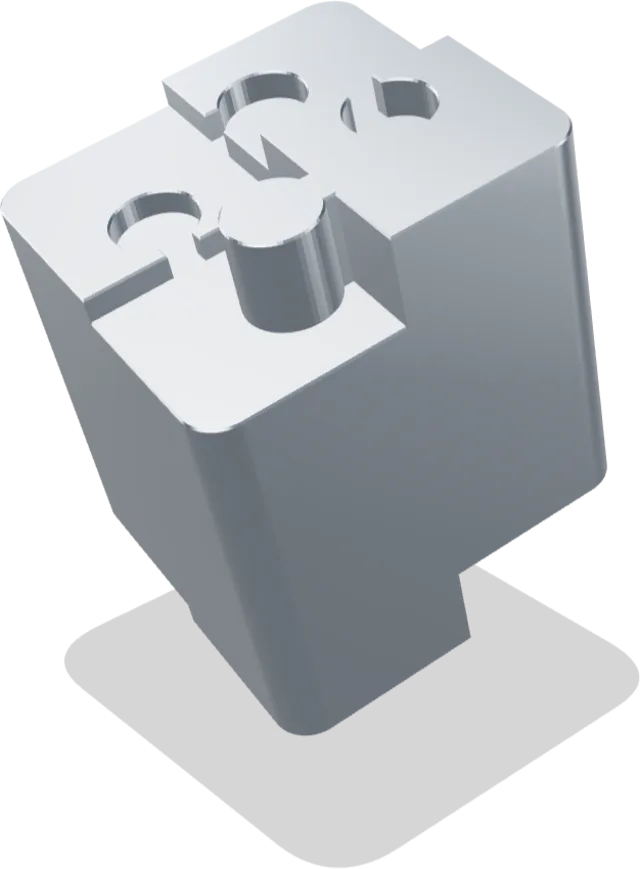
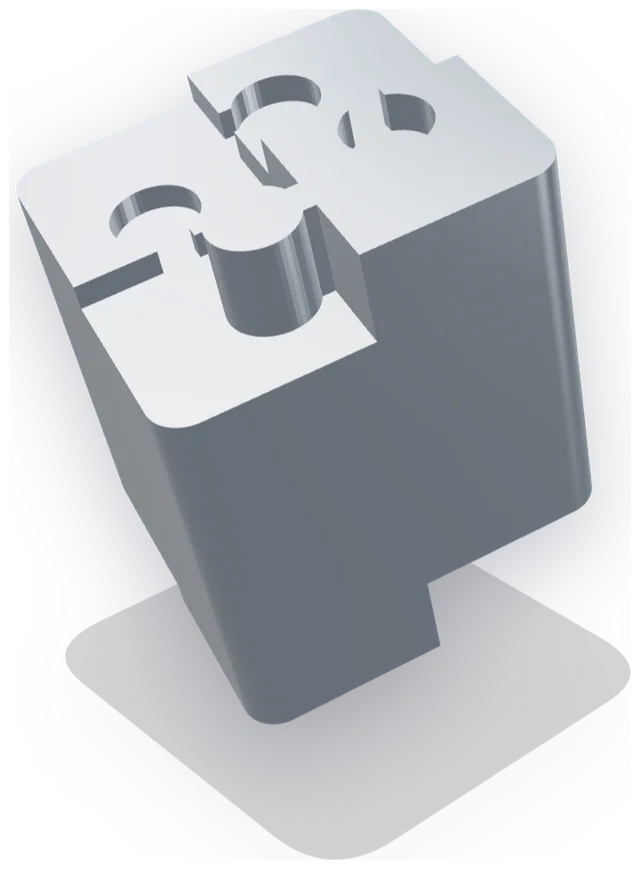
Performance improvements

diff --git a/src/scripts/samplePart3d.ts b/src/scripts/samplePart3d.ts
@@ -100,7 +100,7 @@ function extrudePiece(
 ): THREE.Mesh {
   const geo = new THREE.ExtrudeGeometry(shape, {
     depth,
-    bevelEnabled: true,
+    bevelEnabled: bevel > 0,
     bevelThickness: bevel,
     bevelSize: bevel * 0.8,
     // A generous bevel gets extra segments so the edge reads rounded, not chamfered
@@ -174,11 +174,15 @@ export interface SamplePartOptions {
   finish?: "white" | "chrome";
 }
 
-export function initSamplePart(
+// Total Blocking Time counts only the slice of each main-thread task beyond
+// 50ms, so the init is split into sub-50ms phases with a yield between them
+const yieldToMain = () => new Promise<void>((r) => setTimeout(r, 0));
+
+export async function initSamplePart(
   host: HTMLElement,
   interactionRoot: HTMLElement,
   opts: SamplePartOptions = {},
-): void {
+): Promise<void> {
   try {
     const probe = document.createElement("canvas");
     if (!(probe.getContext("webgl2") ?? probe.getContext("webgl"))) return;
@@ -189,17 +193,20 @@ export function initSamplePart(
   const reducedMotion = window.matchMedia("(prefers-reduced-motion: reduce)").matches;
   const finePointer = window.matchMedia("(hover: hover) and (pointer: fine)").matches;
 
+  const chrome = opts.finish === "chrome";
+
   const scene = new THREE.Scene();
   const camera = new THREE.PerspectiveCamera(33, 1, 0.1, 30);
   camera.position.set(6.15, 6.0, 9.3); // ~50% further back
   camera.lookAt(0, 0.3, 0);
 
   const renderer = new THREE.WebGLRenderer({ antialias: true, alpha: true });
-  renderer.setPixelRatio(Math.min(window.devicePixelRatio, 2));
+  // 1.5x is visually identical to 2x on a ~26rem canvas and renders half the pixels
+  renderer.setPixelRatio(Math.min(window.devicePixelRatio, chrome ? 1.5 : 2));
   renderer.setClearColor(0x000000, 0);
   renderer.toneMapping = THREE.ACESFilmicToneMapping;
 
-  const chrome = opts.finish === "chrome";
+  await yieldToMain();
 
   // Soft studio reflections so the steel reads as steel. Chrome is almost
   // entirely reflection-driven, so it gets a high-contrast studio instead of
@@ -207,6 +214,8 @@ export function initSamplePart(
   const pmrem = new THREE.PMREMGenerator(renderer);
   scene.environment = pmrem.fromScene(chrome ? chromeStudio() : new RoomEnvironment(), 0.04).texture;
   scene.environmentIntensity = chrome ? 0.85 : 0.35;
+
+  await yieldToMain();
 
   // One shared steel material - identical colour on every piece so the
   // assembled part reads as a single solid blank with no visible layers.
@@ -233,9 +242,9 @@ export function initSamplePart(
 
   if (chrome) {
     // Puzzle cube: one quadrant block, rotated into all four positions.
-    // Hairline bevel: top and bottom edges read sharp, vertical corners keep
+    // No extrude bevel: seam and knob edges stay dead sharp; vertical corners keep
     // their radius from the 2D outline
-    const template = extrudePiece(puzzleQuadrant(0.92), steel, 1.9, 24, 0.01);
+    const template = extrudePiece(puzzleQuadrant(0.92), steel, 1.9, 24, 0);
     const blocks = [0, 1, 2, 3].map((k) => {
       const m = k === 0 ? template : new THREE.Mesh(template.geometry, steel);
       m.rotation.y = (k * Math.PI) / 2;
@@ -323,13 +332,8 @@ export function initSamplePart(
     scene.add(rim);
   }
 
-  // Mount - swap fallback image for canvas
   renderer.domElement.className = "hg__canvas";
   renderer.domElement.setAttribute("aria-hidden", "true");
-  host.appendChild(renderer.domElement);
-  const fallback = host.querySelector<HTMLElement>("[data-part-fallback]");
-  if (fallback) fallback.hidden = true;
-  host.dataset.live = "true";
 
   const resize = () => {
     const w = host.clientWidth;
@@ -340,7 +344,8 @@ export function initSamplePart(
     renderer.setSize(w, h);
   };
   resize();
-  new ResizeObserver(resize).observe(host);
+
+  await yieldToMain();
 
   // Interaction state (targets lerped in the loop)
   let targetRotY = baseRotY;
@@ -355,8 +360,16 @@ export function initSamplePart(
   let hovering = false;
 
   if (finePointer && !reducedMotion) {
+    // Rect cached outside the handler: a getBoundingClientRect on every
+    // pointermove forces layout against the rAF loop's style writes
+    let rootRect = interactionRoot.getBoundingClientRect();
+    const refreshRect = () => {
+      rootRect = interactionRoot.getBoundingClientRect();
+    };
+    window.addEventListener("resize", refreshRect);
+    window.addEventListener("scroll", refreshRect, { passive: true });
     interactionRoot.addEventListener("pointermove", (e) => {
-      const r = interactionRoot.getBoundingClientRect();
+      const r = rootRect;
       const nx = ((e.clientX - r.left) / r.width) * 2 - 1;
       const ny = ((e.clientY - r.top) / r.height) * 2 - 1;
       // X movement rotates the part; Y movement telescopes it inside-out
@@ -416,9 +429,20 @@ export function initSamplePart(
 
   applyExplode(explode);
 
+  let lastRender = 0;
   const frame = () => {
     rafId = 0;
     if (!inView || !pageVisible) return;
+    // Cap the cube at ~60fps: on 120Hz displays every other tick is skipped,
+    // halving render cost during hover with no visible difference
+    if (chrome) {
+      const now = performance.now();
+      if (now - lastRender < 15) {
+        rafId = requestAnimationFrame(frame);
+        return;
+      }
+      lastRender = now;
+    }
     const dt = Math.min(clock.getDelta(), 0.05);
     const t = clock.elapsedTime;
 
@@ -457,9 +481,24 @@ export function initSamplePart(
     }
   };
 
-  // Guarantee one painted frame even when the tab loads hidden
+  // Compile the shaders off the main thread (KHR_parallel_shader_compile)
+  // instead of letting the first render() do it synchronously
   part.rotation.set(tiltX, rotY, 0);
+  try {
+    await renderer.compileAsync(scene, camera);
+  } catch {
+    /* falls through - render() compiles synchronously */
+  }
+  await yieldToMain();
+
+  // Guarantee one painted frame even when the tab loads hidden, then swap
+  // the static poster for the live canvas - identical pose, seamless switch
   renderer.render(scene, camera);
+  host.appendChild(renderer.domElement);
+  const fallback = host.querySelector<HTMLElement>("[data-part-fallback]");
+  if (fallback) fallback.hidden = true;
+  host.dataset.live = "true";
+  new ResizeObserver(resize).observe(host);
 
   new IntersectionObserver(
     (entries) => {
